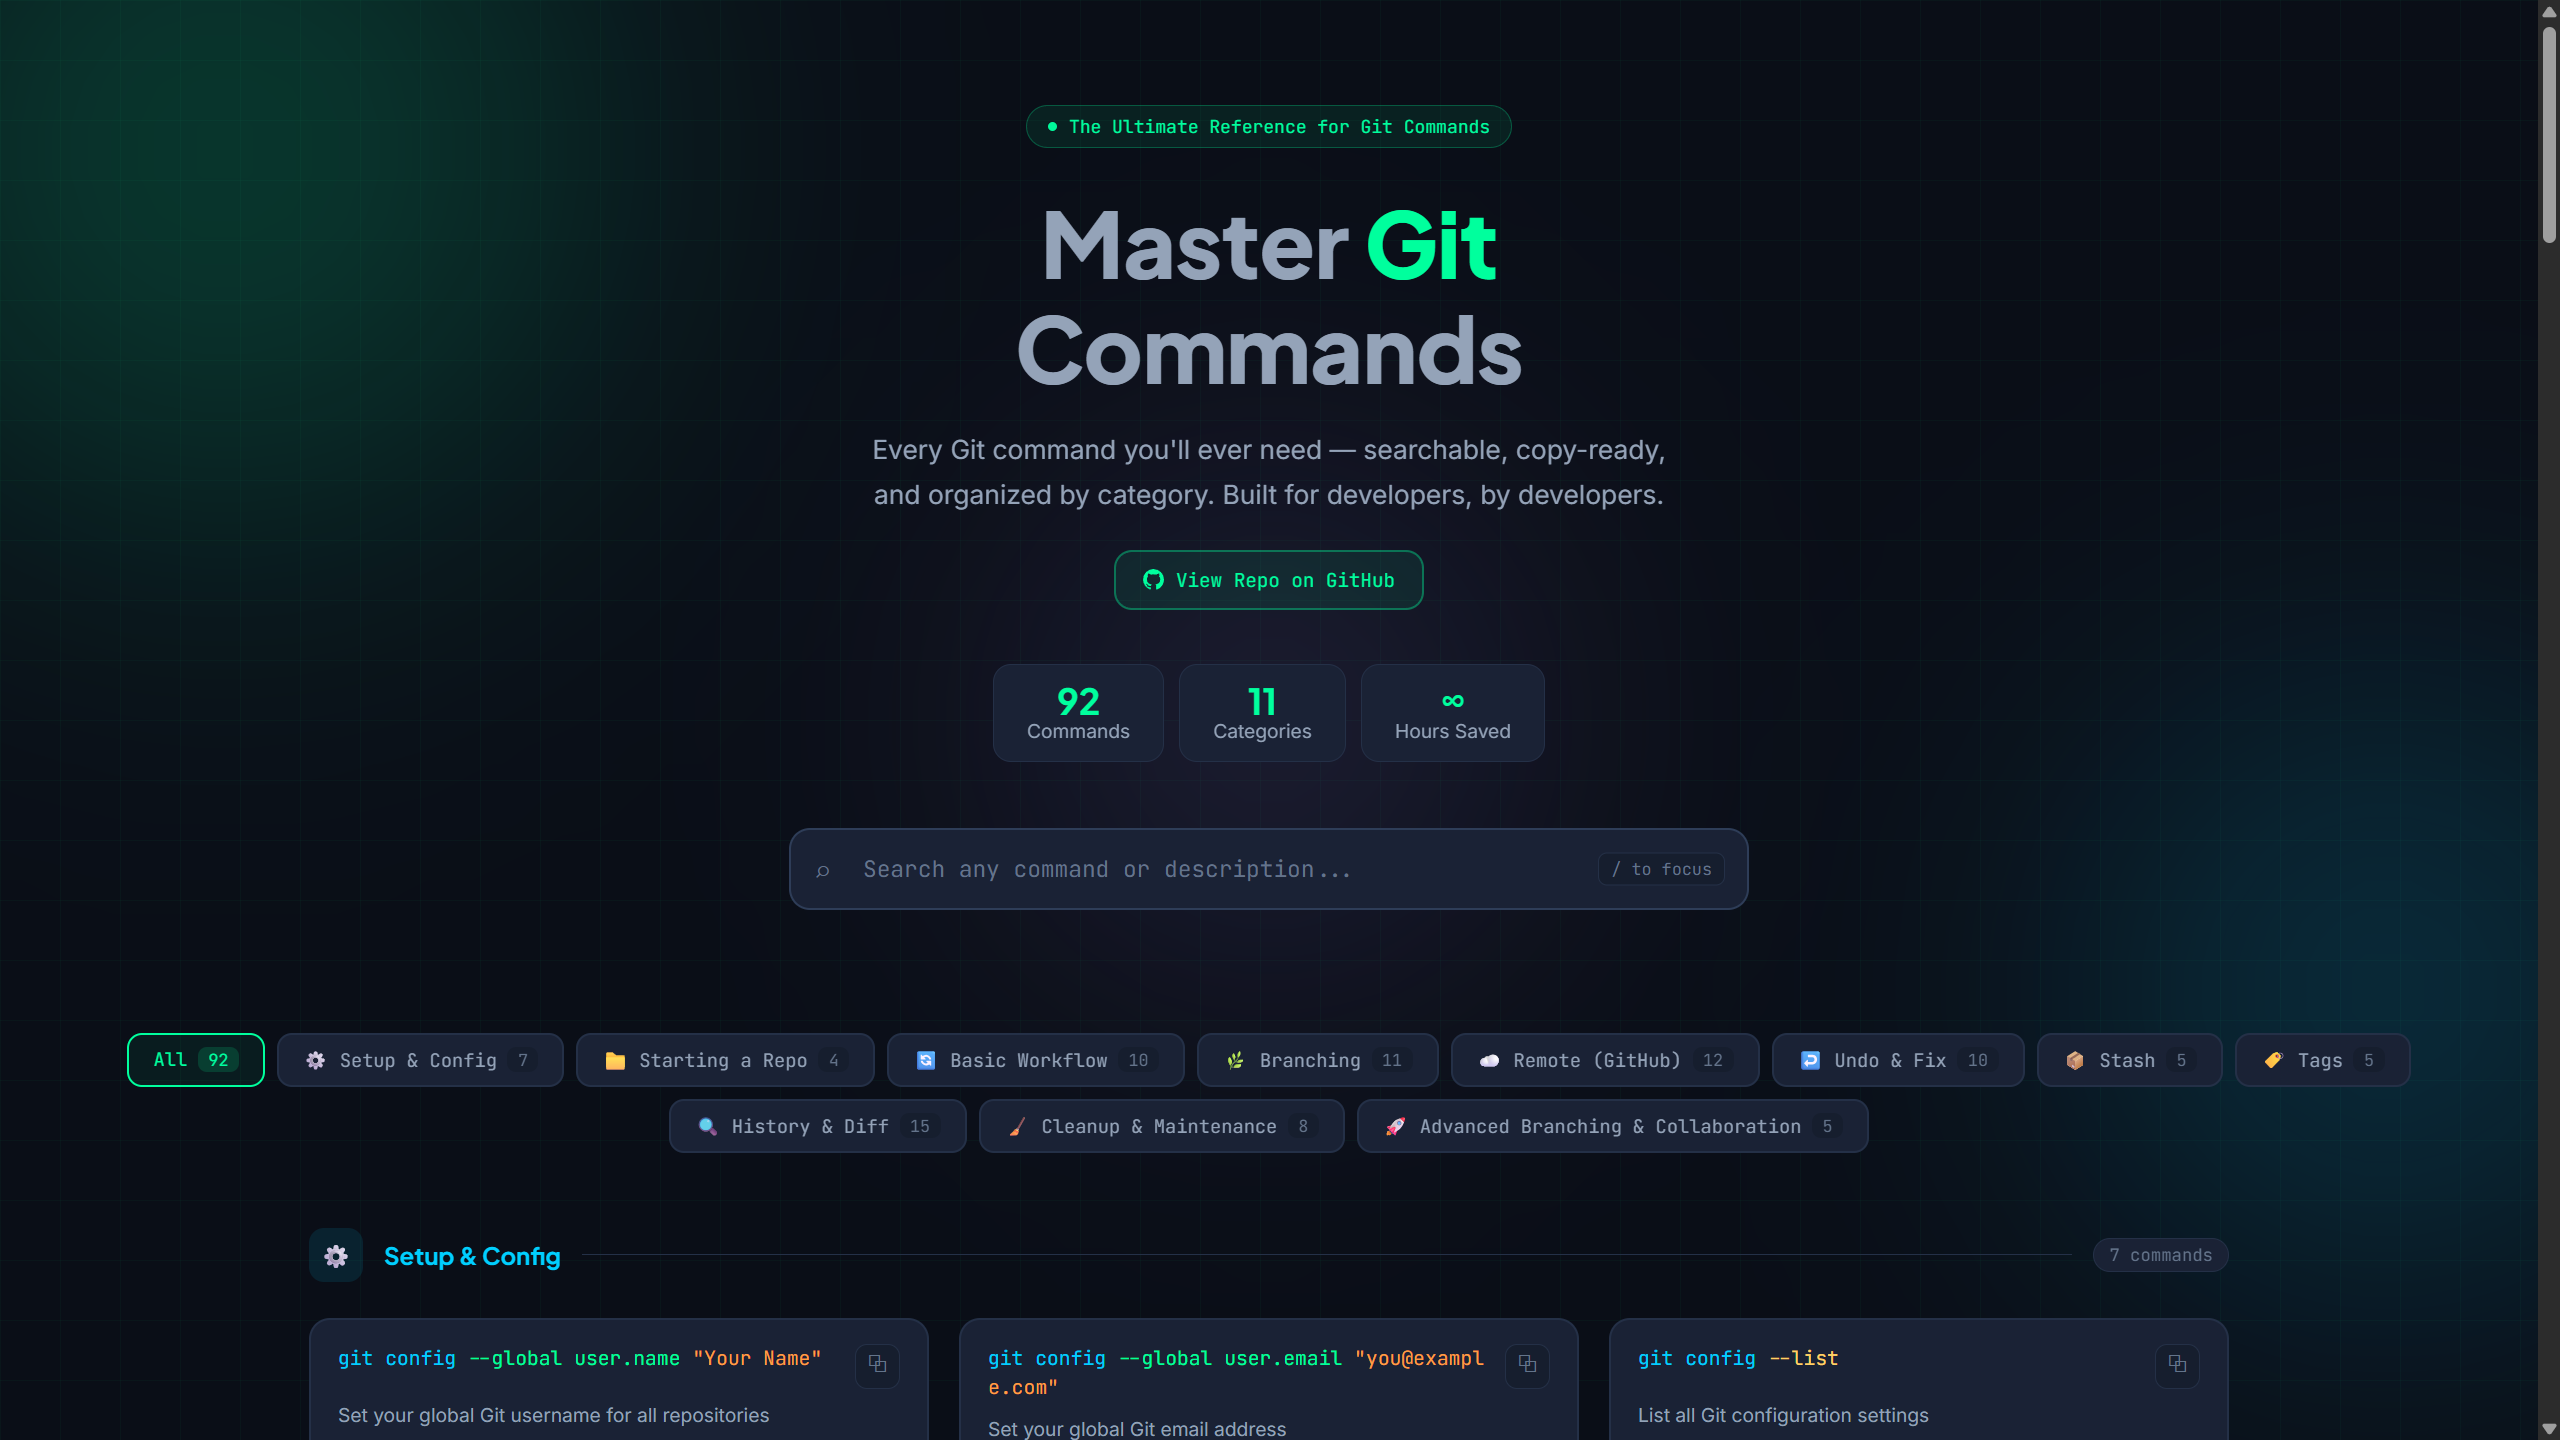
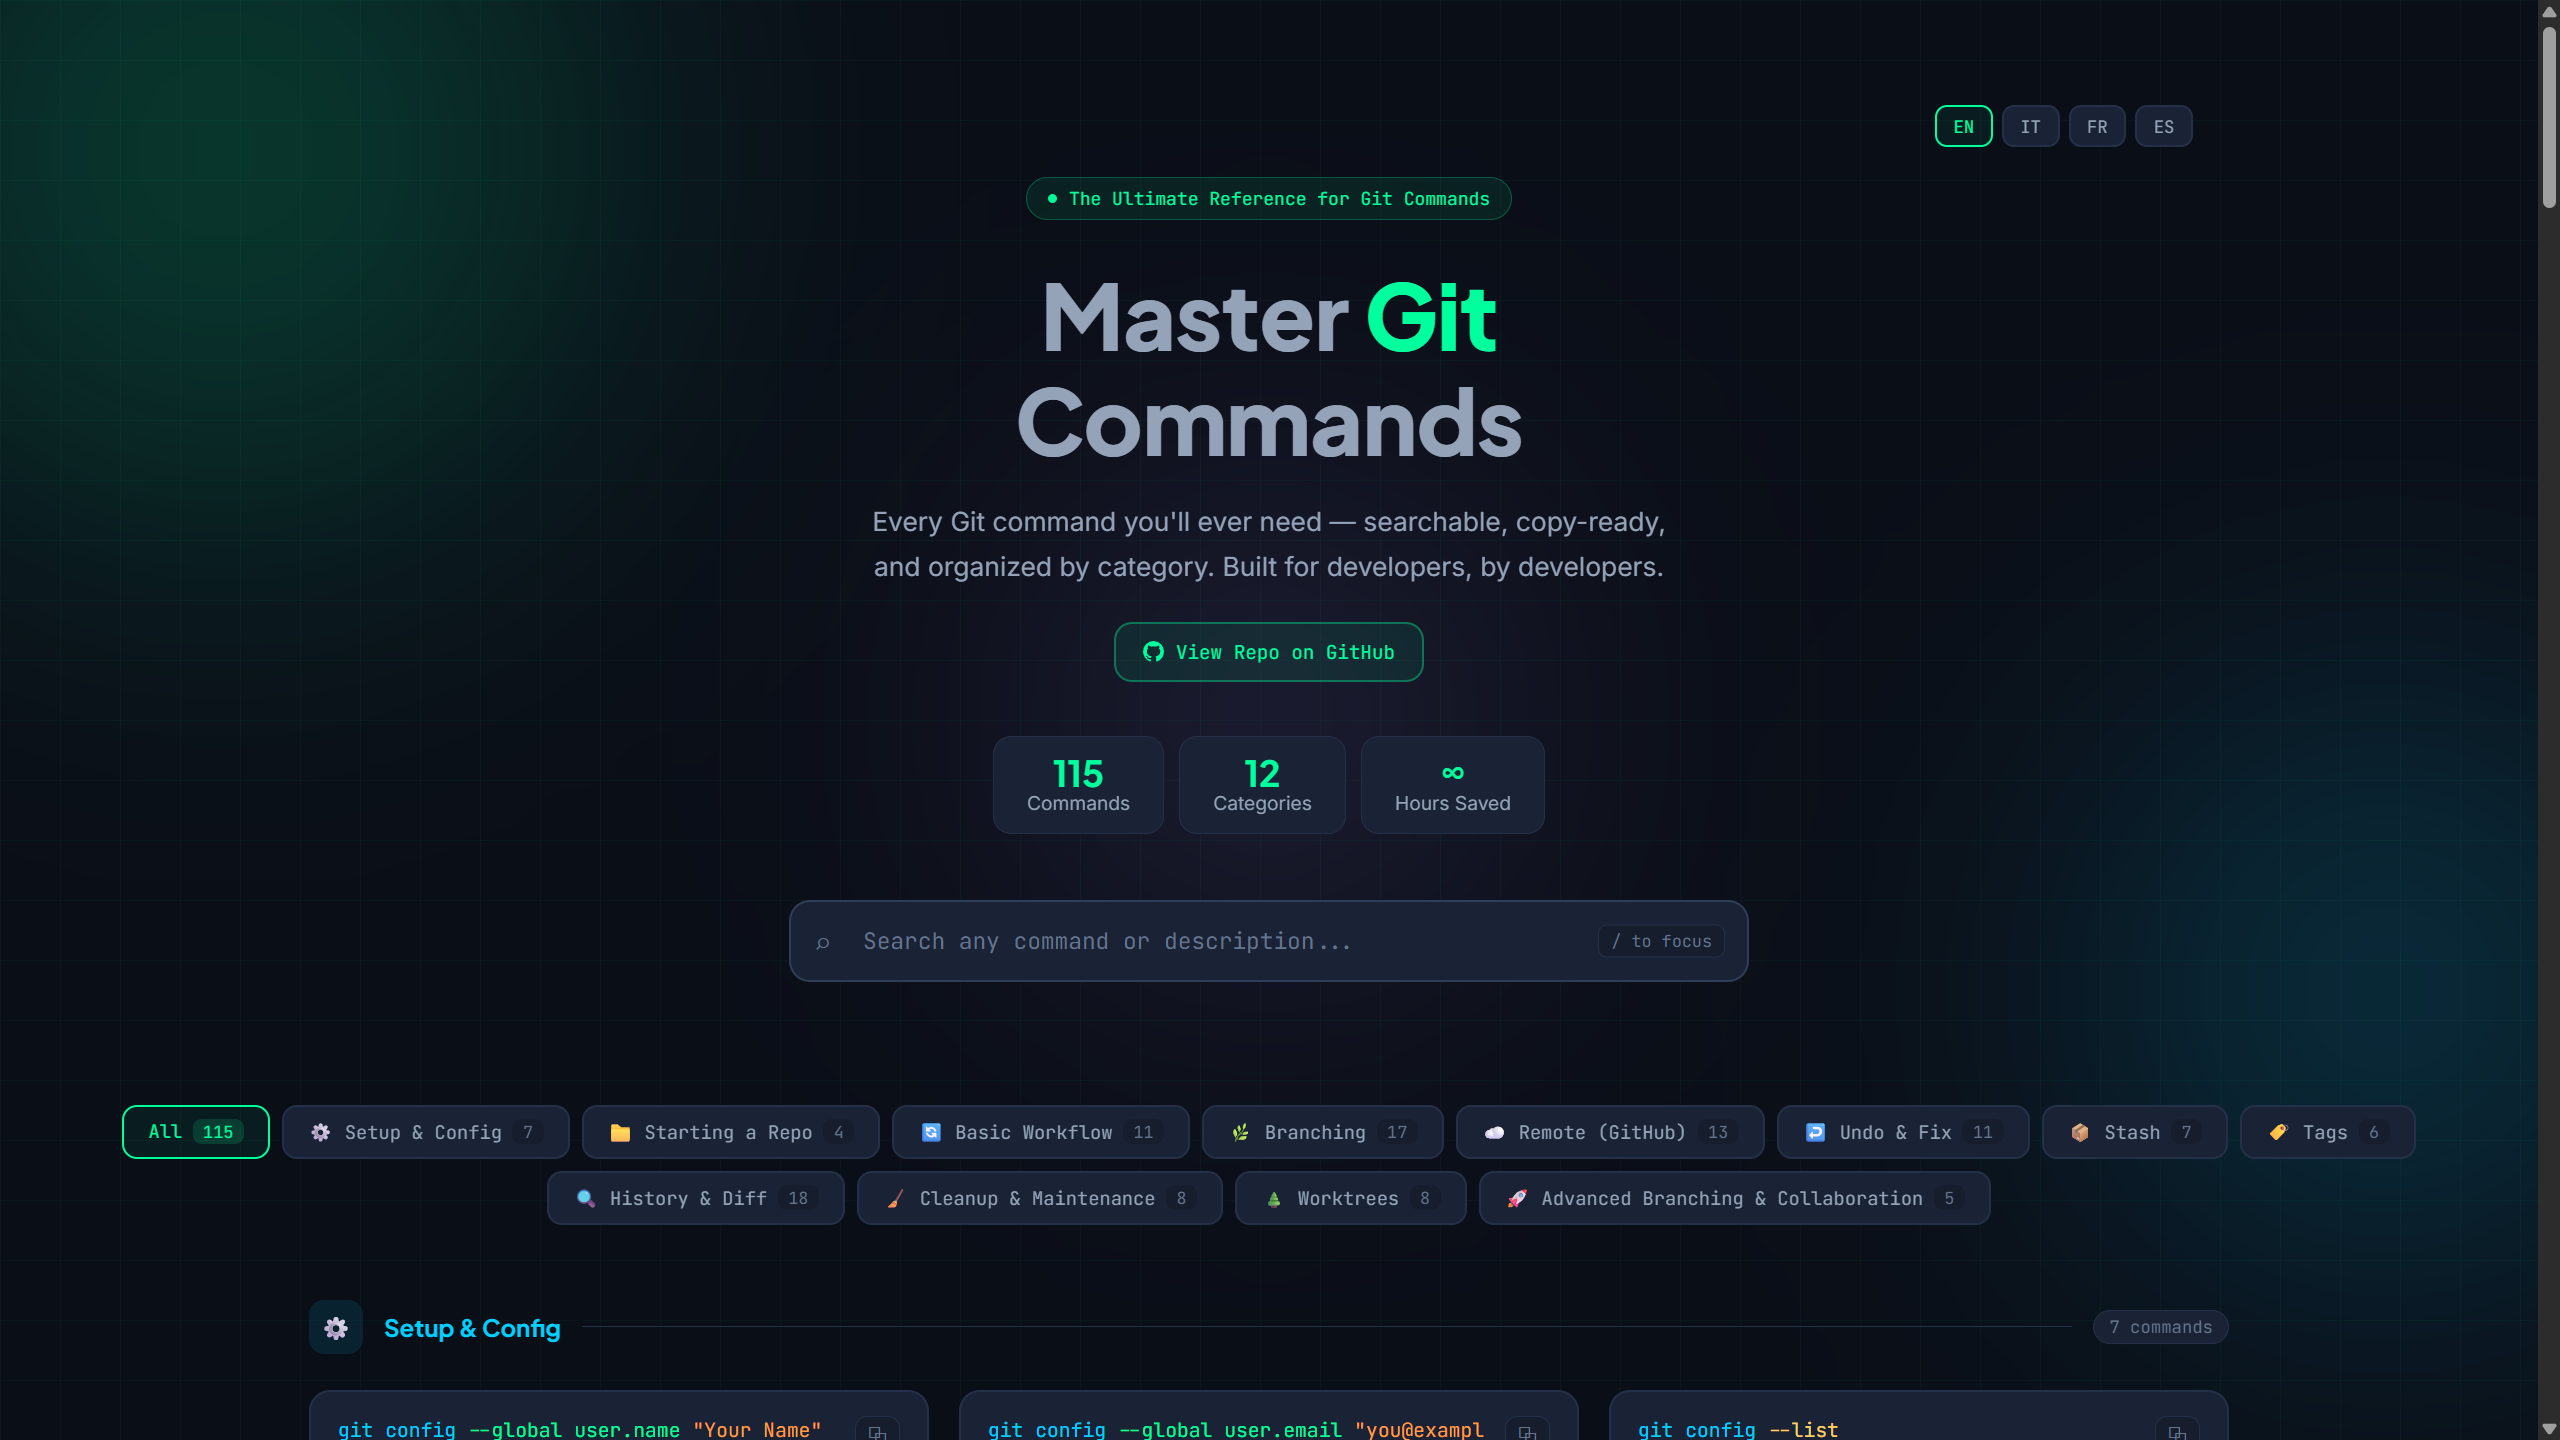
updated: readme file and preview image

diff --git a/README.md b/README.md
@@ -51,7 +51,7 @@ This project uses a clean static architecture with no framework and no build req
 - **`assets/data/commands.it.json`**: Italian translations
 - **`assets/data/commands.fr.json`**: French translations
 - **`assets/data/commands.es.json`**: Spanish translations
-- **`assets/data/ui.json`**: all UI strings keyed by locale (`en`, `it`, `fr`)
+- **`assets/data/ui.json`**: all UI strings keyed by locale (`en`, `it`, `fr`, `es`)
 - **`assets/js/app.js`**: app bootstrap and orchestration
 - **`assets/js/modules/`**:
   - `data-loader.js` for data fetching (accepts a `lang` param, loads `commands.{lang}.json`)
@@ -67,7 +67,7 @@ This keeps the app easy to maintain, easy to extend, and contributor-friendly.
 ### ➕ Adding a new command
 
 1. Add the command to `assets/data/commands.en.json` (required, source of truth).
-2. Optionally add translated entries in `assets/data/commands.fr.json` and `assets/data/commands.it.json` in the same PR.
+2. Optionally add translated entries in `assets/data/commands.fr.json` and `assets/data/commands.it.json` and `assets/data/commands.es.json` in the same PR.
 3. If translations are not added yet, the command still appears in FR/IT with an `EN` badge until translated.
 
 ---
@@ -142,6 +142,7 @@ git-commands-cheatsheet/
 │  │  ├─ commands.en.json   ← English (canonical source of truth)
 │  │  ├─ commands.it.json   ← Italian translations
 │  │  ├─ commands.fr.json   ← French translations
+│  │  ├─ commands.es.json   ← Spanish translations
 │  │  └─ ui.json            ← UI strings for all locales
 │  └─ js/
 │     ├─ app.js
@@ -188,7 +189,7 @@ MIT © [abdosorour7](https://github.com/abdosorour7) — free to use, share, and
 
 If this helped you, please consider giving it a ⭐ — it helps others discover it!
 
-***I’m not primarily a web developer — I just build practical tools that solve real developer problems.***
+***I’m not primarily a web developer — I just build some practical tools that solve real problems.***
 
 Built with thoughtful AI assistance.
 